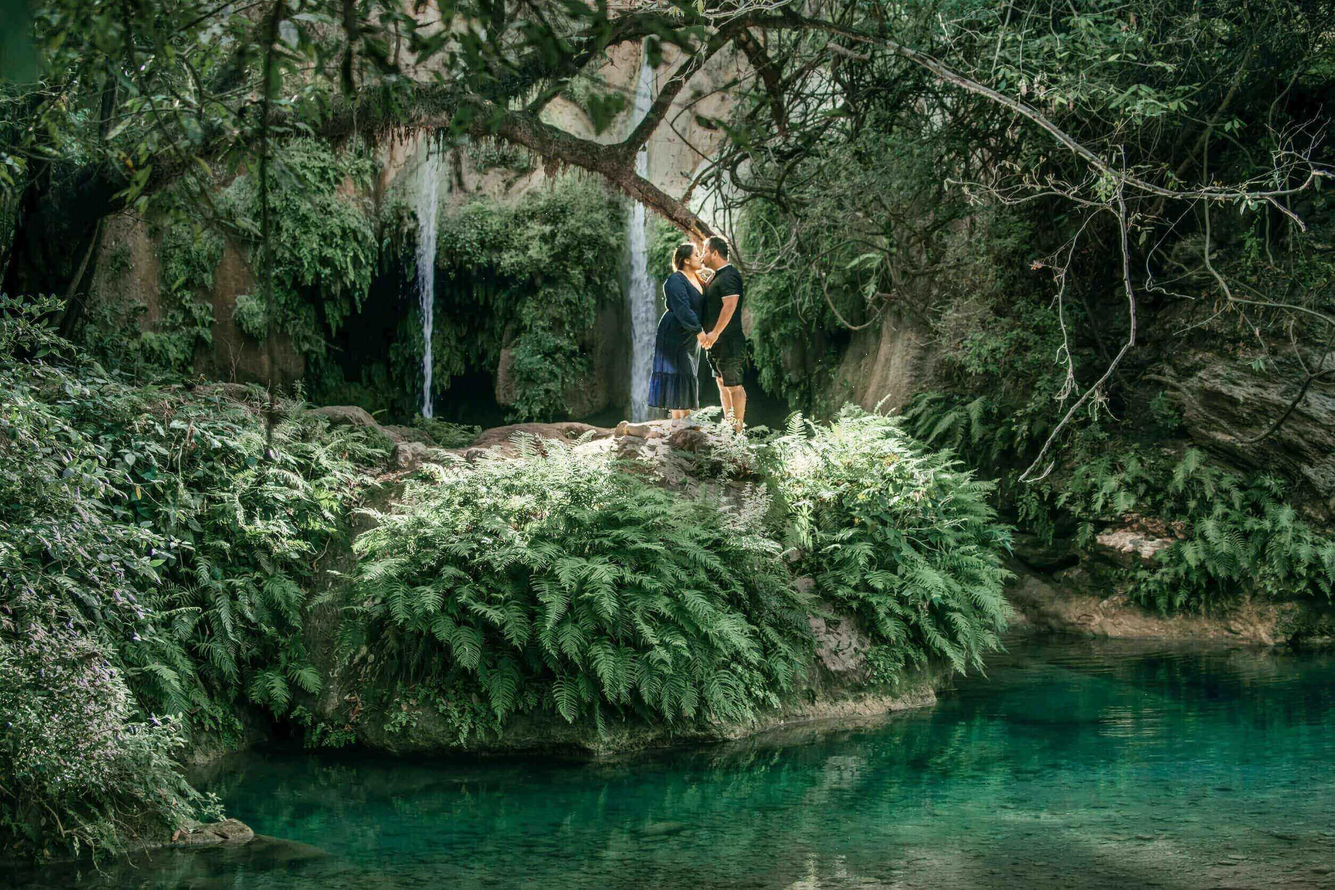
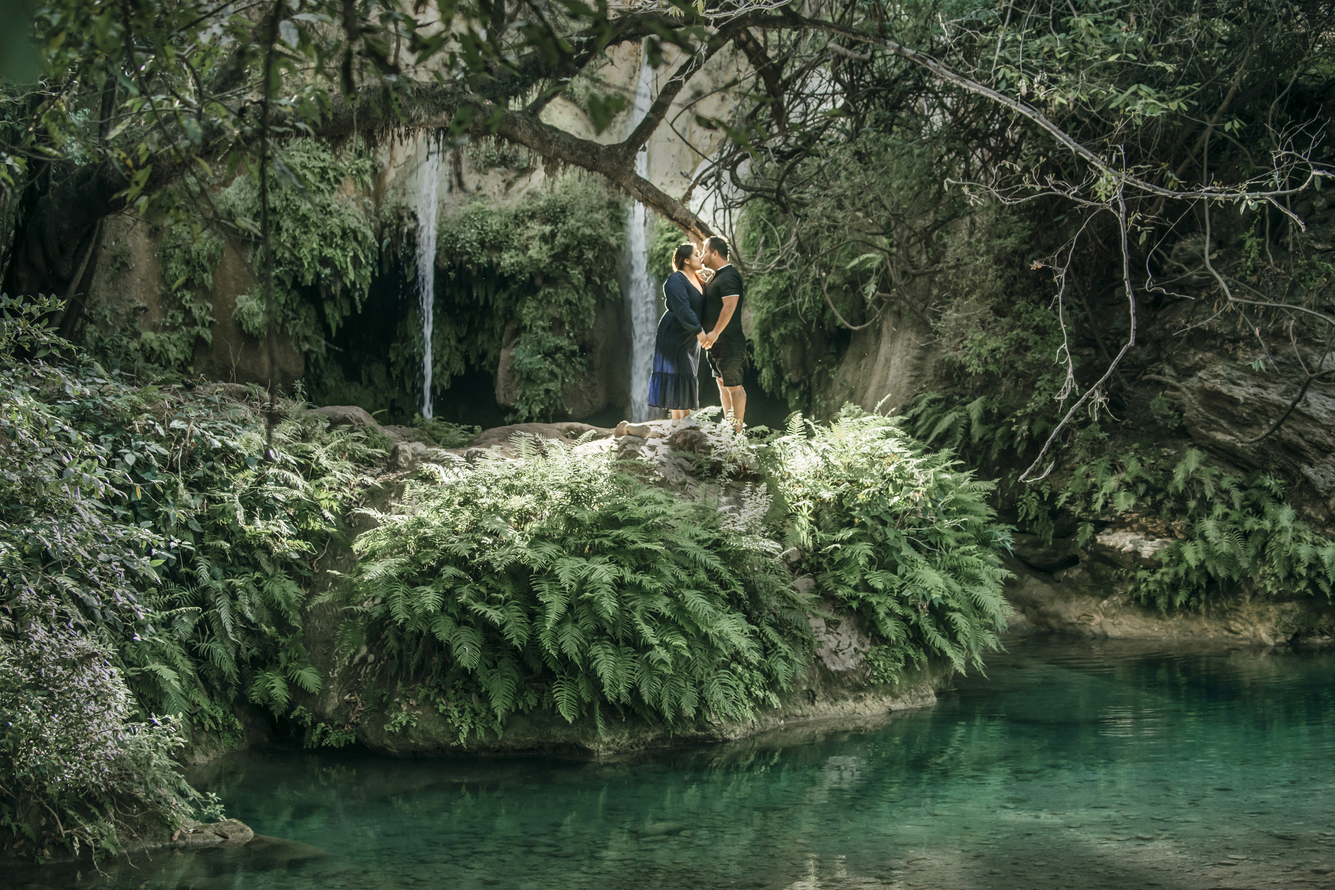
Totally done from me
Totally done from me

diff --git a/index.html b/index.html
@@ -83,7 +83,7 @@
                         
                     </div>
                     <div class="slide2">
-                        <img src="images/j/h4.jpg" alt="">
+                        <img src="images/j/h7.jpg" alt="">
                         <div class="info3">
                             <img src="images/logo.jpg" alt="" class="loglobal">
                         </div>
